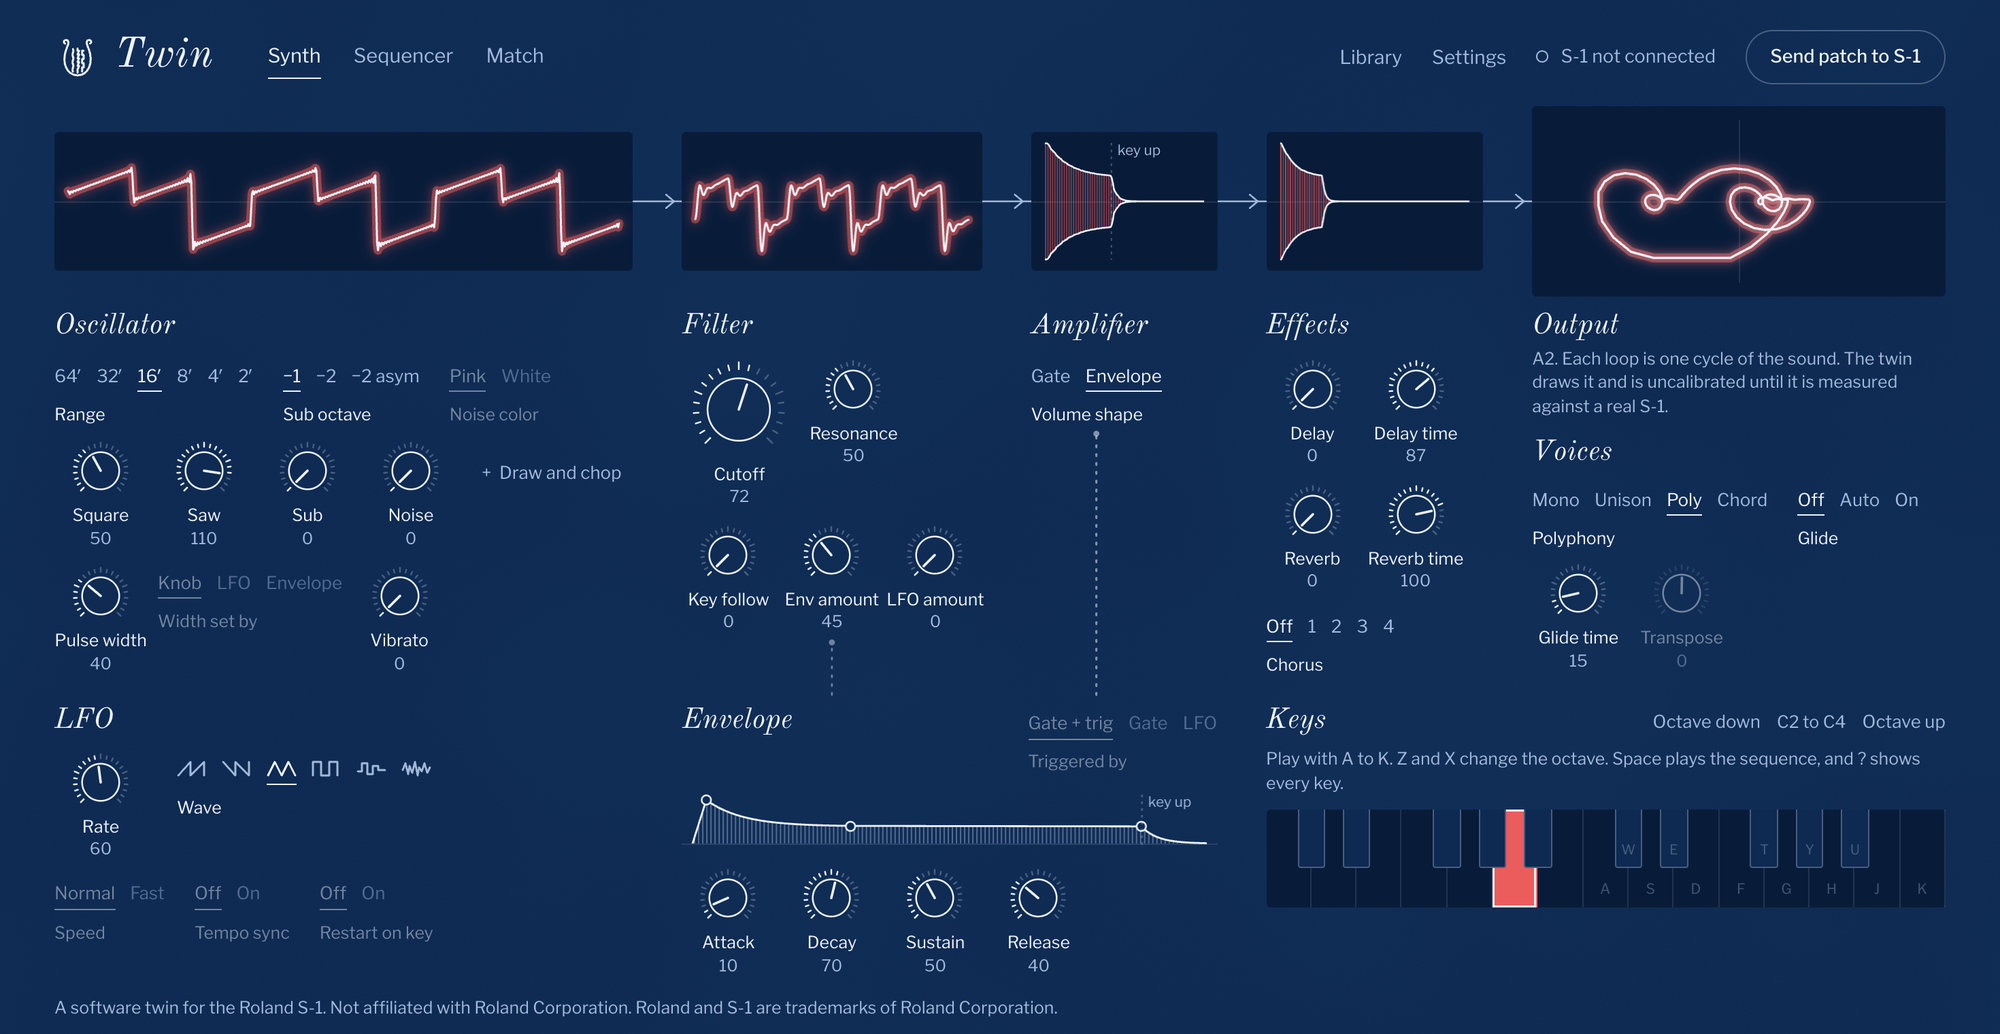
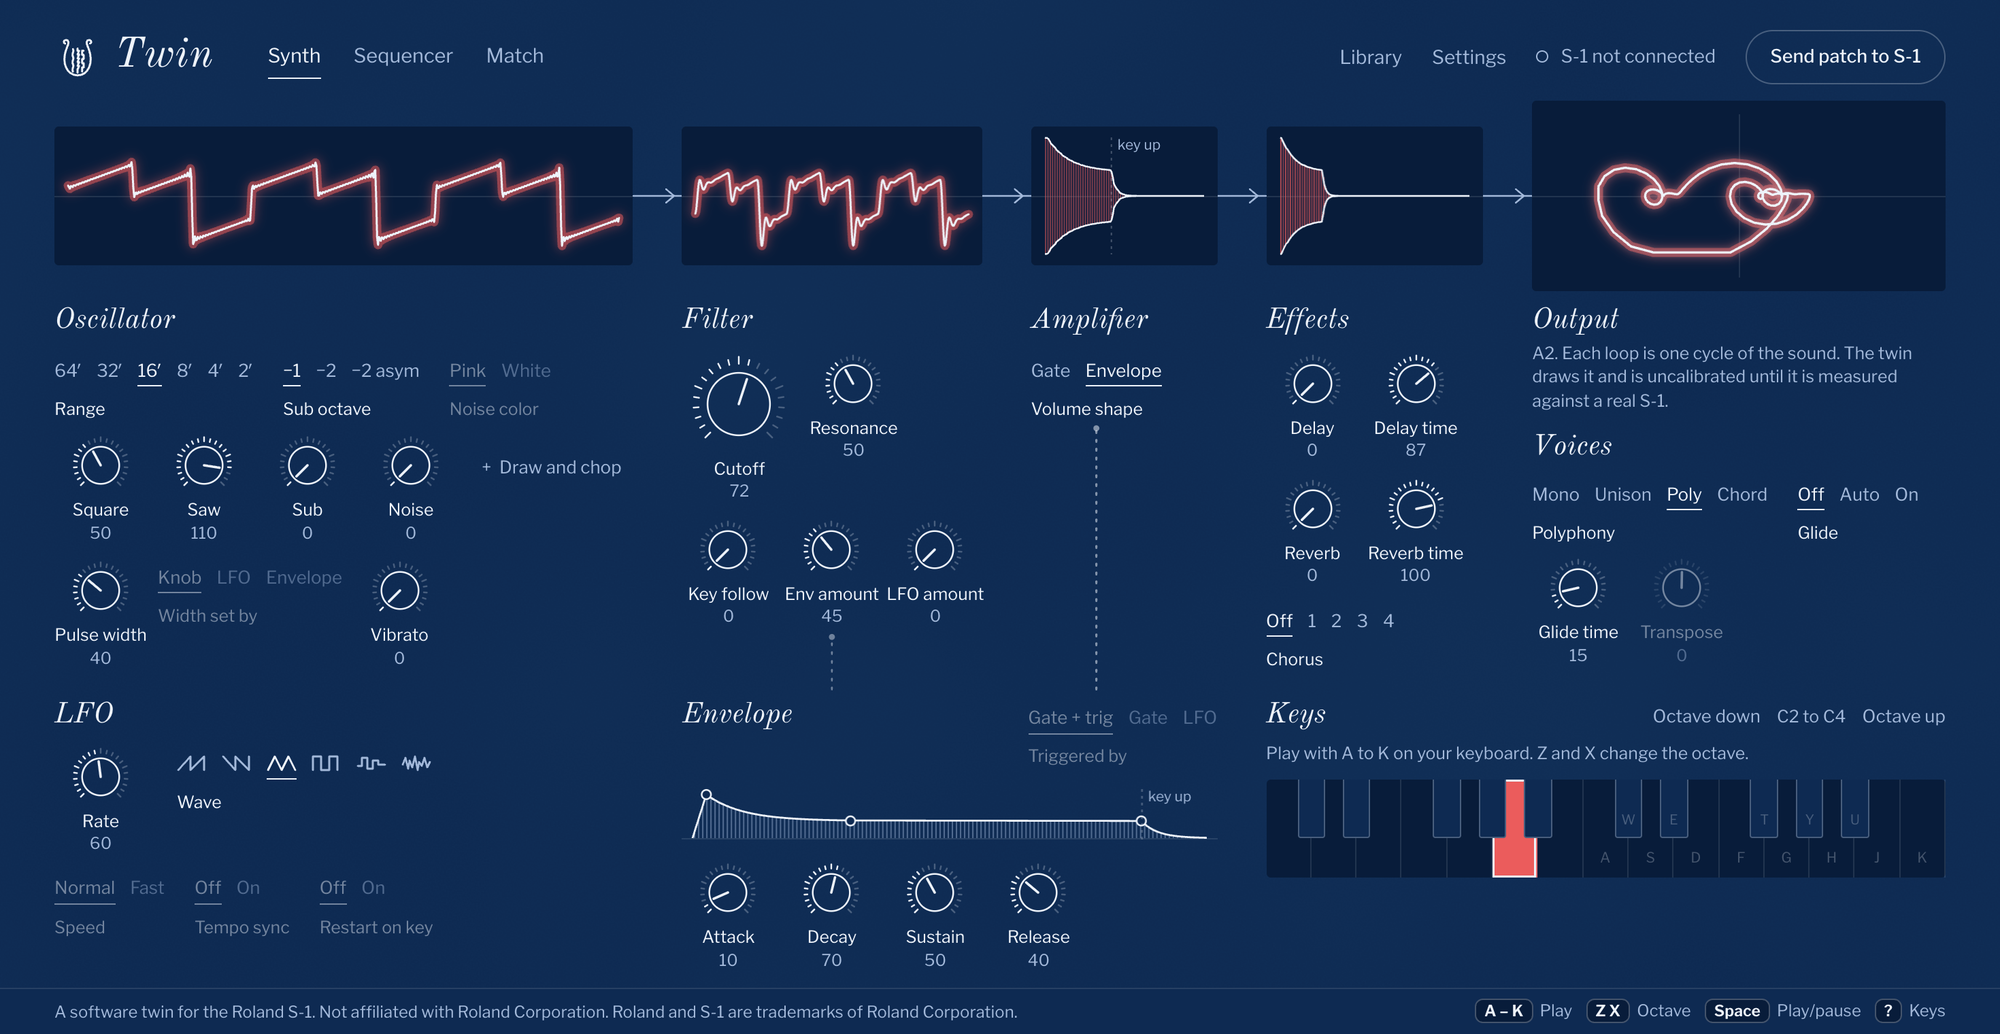
Round 4 integrated: README tells the new search (Deep, switches, Finish now) with fresh captures; soft-page tests pinned to the old quick budget
The README's animation and report come from a live Thorough self-test of the benchmark's Gate patch on the
one-screen Match (73% closeness, Gate found, 15 of 17 settings back within 10, 2 min 26 s); the hero shows the
plate with the bottom strip. BUILD.md §2.4: the optional trying / starts / finished fields, quality=deep and
"finish". STATUS.md: round 4. The soft page's end-to-end tests check the stream, not the search, so they pin
"quick" to the round-3 budget (107 -> 40 s). Full suite: 852 passed, ruff clean, every node check green.

diff --git a/tests/test_soft_match.py b/tests/test_soft_match.py
@@ -44,6 +44,17 @@ def client() -> TestClient:
     return TestClient(server.app, base_url=BASE_URL)
 
 
+@pytest.fixture(autouse=True)
+def _round3_quick_budget(monkeypatch: pytest.MonkeyPatch) -> None:
+    """These tests check the soft page's stream end to end, not the search's quality (that is
+    tests/test_match_search.py). A budget without the round-4 keys runs the round-3 search exactly,
+    so pin "quick" to it: the stream stays the same shape at a third of the time."""
+    from synth.match import twin_session
+
+    monkeypatch.setitem(twin_session.QUALITY_PRESETS, "quick",
+                        {"gd_iters": 45, "restarts": 1, "neighbor_iters": 14})
+
+
 def _model_target_wav(note: int = 60) -> bytes:
     """Render a bright, known patch with the differentiable model and return WAV
     bytes. No sub / noise so YIN locks the true octave (a strong sub otherwise

diff --git a/README.md b/README.md
@@ -48,13 +48,15 @@ Give the matcher a sound: drop in a file, record one from a microphone or the S-
 itself on the synth's current sound. It turns the twin's knobs by gradient descent until the twin
 sounds the same, and you watch every step.
 
-![The matcher at work: the loss falls over four starts, the guess (dotted) closes on the target (solid), and the knobs turn until the match is done](docs/images/match.gif)
+![The matcher at work: the loss falls over four starts, the guess (dotted) closes on the target (solid), the Volume shape switch moves to Gate, and the knobs turn until the match is done](docs/images/match.gif)
 
 The self-test is the honest one. The synth plays a note with settings the matcher never sees, and
-the matcher starts from scratch. In the run above, it brought back all 14 settings that shape the
-sound to within 10 (on the knobs' 0 to 127 scale), in about 80 seconds on a laptop:
+the matcher starts from scratch. In the run above the target is in Gate mode, a switch setting the
+matcher has to find for itself. It found Gate, and brought 15 of the 17 settings that shape the
+sound back to within 10 (on the knobs' 0 to 127 scale), at 73% closeness, in two and a half
+minutes on a laptop:
 
-![How close it came back: 14 of 14 settings within 10, each with its true value and the value the matcher found](docs/images/recovery.png)
+![How close it came back: 15 of 17 settings within 10, each with its true value and the value the matcher found; Volume shape Gate found](docs/images/recovery.png)
 
 ## Sync a real S-1
 
@@ -87,10 +89,14 @@ flowchart LR
   overlap-add of short frames, each with its own ladder, which keeps the gradient cheap.
 - **From knob to sound.** Each knob's 0 to 127 maps to a physical unit (hertz, seconds, a ratio)
   through a curve. The curves are what a calibration run fits to a real S-1.
-- **The matcher** runs Adam on 18 continuous knobs and tries the 3 switches (sub octave, LFO wave,
-  volume shape) in turn. The loss is a log-mel distance, plus a multi-resolution spectrogram term
-  and an envelope term, on loudness-normalized audio. Quick is one descent of 45 steps. Thorough
-  is four random starts of 160 steps each, and it keeps the best.
+- **The matcher** runs Adam on 18 continuous knobs. Each descent keeps going until it stops
+  improving, with a step size that shrinks on a cosine schedule. After each start it scores every
+  setting of the 3 switches (sub octave, LFO wave, volume shape) and re-tunes the knobs under the
+  most promising ones; it also scans the LFO's wave and rate. A slow final polish starts from the
+  best patch. The loss is a log-mel distance, plus a multi-resolution spectrogram term and an
+  envelope term, on loudness-normalized audio. **Quick** is one start (about 30 seconds),
+  **Thorough** four starts (2 to 3 minutes), and **Deep** eight starts with every switch setting
+  (up to 10 minutes). **Finish now** stops early and keeps the best patch so far.
 - **The browser twin** is the same model in an AudioWorklet. Every test run checks it against the
   Python: 0.001 log-mel apart offline and 0.07 in real time, where two different patches are at
   least 1.9 apart.
@@ -101,9 +107,10 @@ flowchart LR
   guesses. A calibration run fits them from a few hundred recorded notes of a real S-1, and an ear
   test checks that the matcher's idea of "closer" agrees with a listener. Until that session runs,
   a match is only as true as the twin.
-- On the twin's own sounds the matcher brings the settings back (the self-test above). On sounds
-  from elsewhere, the published runs reach 33 to 50% closeness, and closeness is not yet checked by
-  ear.
+- On the twin's own sounds the matcher brings the settings back (the self-test above). On five
+  twin-made test sounds, four of them with non-default switches, it reaches 54 to 73% closeness
+  and finds every switch (`docs/match-benchmarks.md`). On sounds from elsewhere, the published
+  runs reach 33 to 50%. Closeness is not yet checked by ear.
 - Delay, reverb, chorus and the voice modes are browser extras outside the model: they sound, but
   the matcher does not fit them. Draw and Chop need the real S-1.
 - Tested in Chrome. Safari is untested.

diff --git a/STATUS.md b/STATUS.md
@@ -13,6 +13,15 @@
   launcher convention: **`synth`** (`bin/synth`) runs the venv's `synth --no-browser`
   detached, waits on `/api/status`, opens the cockpit — `synth off` stops it. Appears on the
   HQ control panel (:8800).
+- **2026-09-28 — round 4, the matcher tries harder (local, not yet pushed):** Tyler: "i wish also the optimization
+  tried harder ... it gives up too easily. especially on the discrete options." Cause: the whole descent ran under the
+  default switches, and the other switch settings were scored once at the end with no re-descent; fixed step counts;
+  a constant LR. **Now** (W-rec, `twin_session.py`): plateau-stopped descents on a cosine LR, a switch re-descent after
+  every start (Quick 1, Thorough top 3, Deep all), an LFO scan (wave × rate × pitch/filter), a final polish, a **Deep**
+  preset (8 starts), and **Finish now** (`"finish"` on /ws/match → a done frame with the best so far). **Benchmark**
+  (5 twin-made targets, 4 with non-default switches; `docs/match-benchmarks.md`): closeness up on all five (mean
+  55.5 → 66.6%), switches found 5/5 (old 3/5), more settings back on every target; Thorough now 1.4–2.3 min (was
+  ~1). Soft-page e2e tests pinned to the old quick budget (107 → 40 s). Weak spots left: fine tune and vibrato depth.
 - **2026-09-28 — round 3, every view on one screen (local, not yet pushed):** Tyler: "that page is spilling off the
   bottom of the screen" (Match: 1,027 px idle with the Match button below the fold, ~1,650 with the report; the
   Sequencer 1,072). `core/fit.js` (the plate's fit, shared: 1470 px design width, scaled down evenly, never up) and a

diff --git a/docs/design/BUILD.md b/docs/design/BUILD.md
@@ -103,7 +103,11 @@ params as today (`throttle`, `notes`, `quality`, `init` — `init` becomes a CC 
 page-unit frames by converting from the shared session, and its tests stay green.
 
 Frames also carry `wave` (the candidate's cycle, for the plume) on every frame and `target_wave` on
-pitch and done. **Recorded match format** (for the static page): `matches/<slug>.json` =
+pitch and done.
+Round 4 adds, all optional so old frames and recorded runs still read the same: `trying` (plain words, the
+switch or LFO setting a re-descent tries), `starts` (how many starts the preset makes) on gd frames, and
+`finished: true` on a done frame that a `"finish"` text message ended early (the search stops at the next
+step and still renders, scores and returns the best so far). `quality` takes `quick`, `thorough` or `deep`. **Recorded match format** (for the static page): `matches/<slug>.json` =
 `{"title", "target_url", "notes", "frames": [<the exact WS frames>], "recorded": "<ISO date>", "engine": "twin <git sha>"}`.
 `views/match.js` must be able to replay one of these with no server. `matches/index.json` lists them:
 `[{"slug", "title", "notes", "recorded", "closeness"}]` (ship `[]` when there are none).
